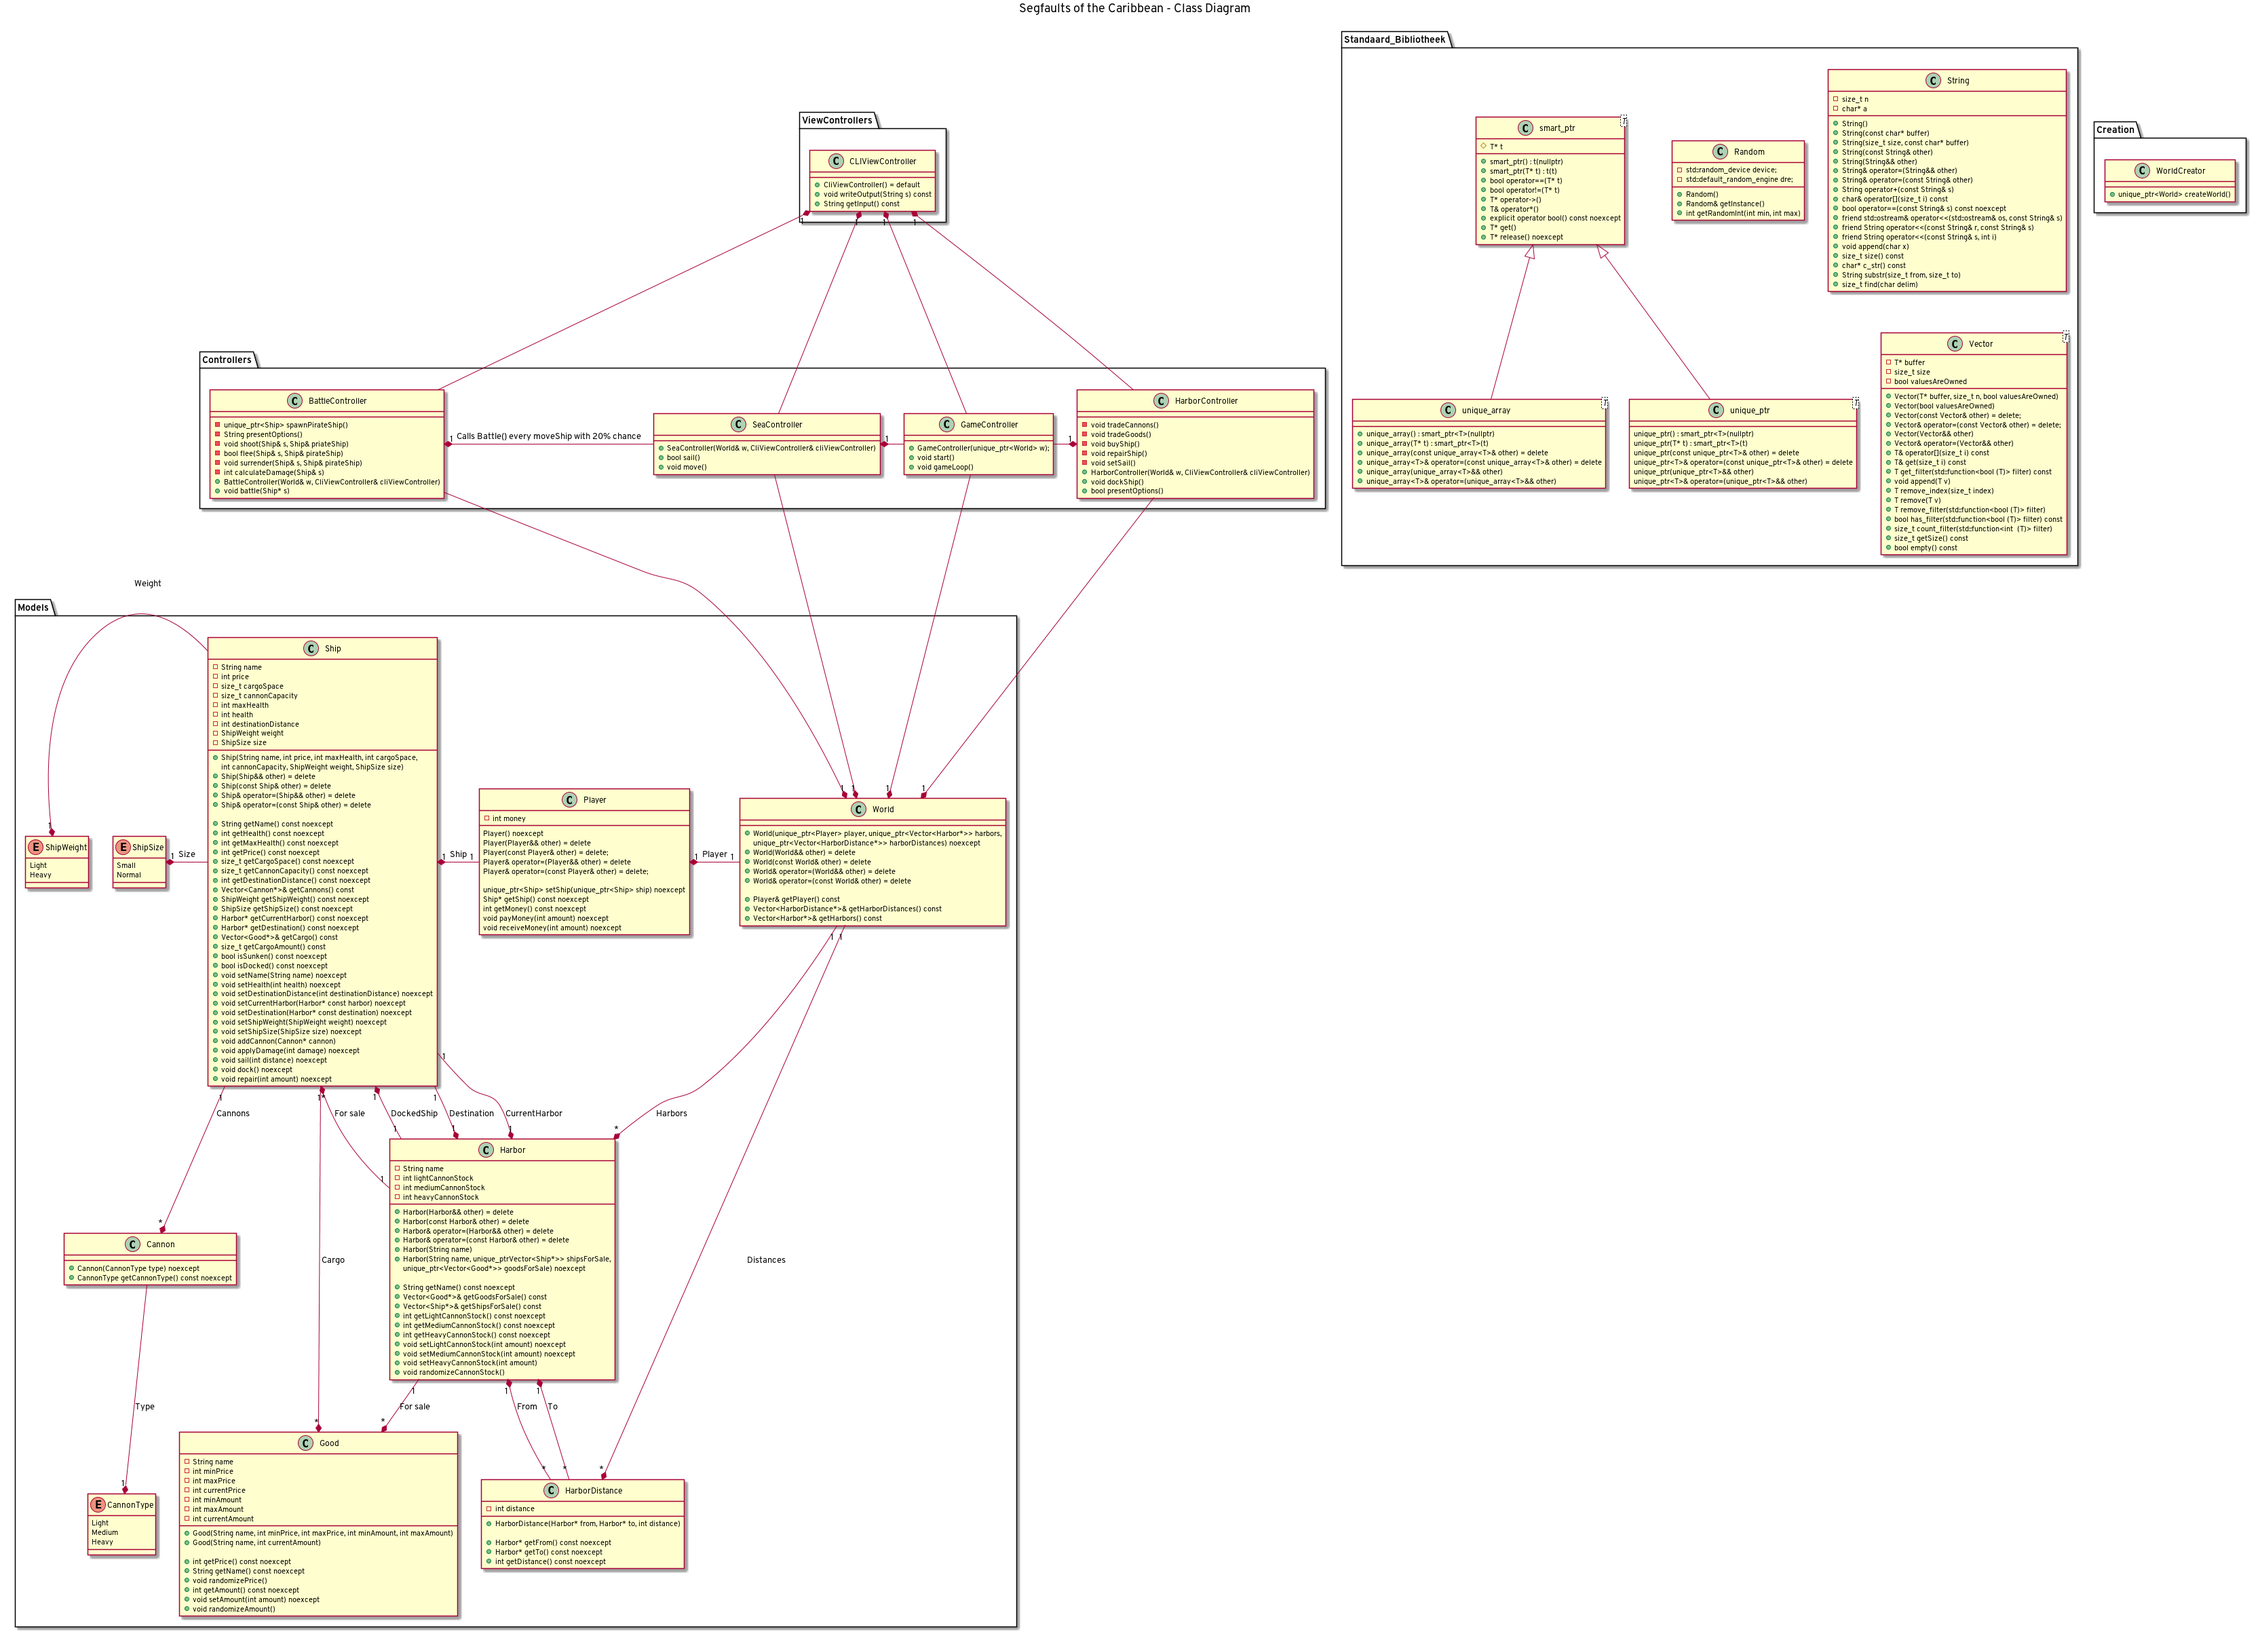
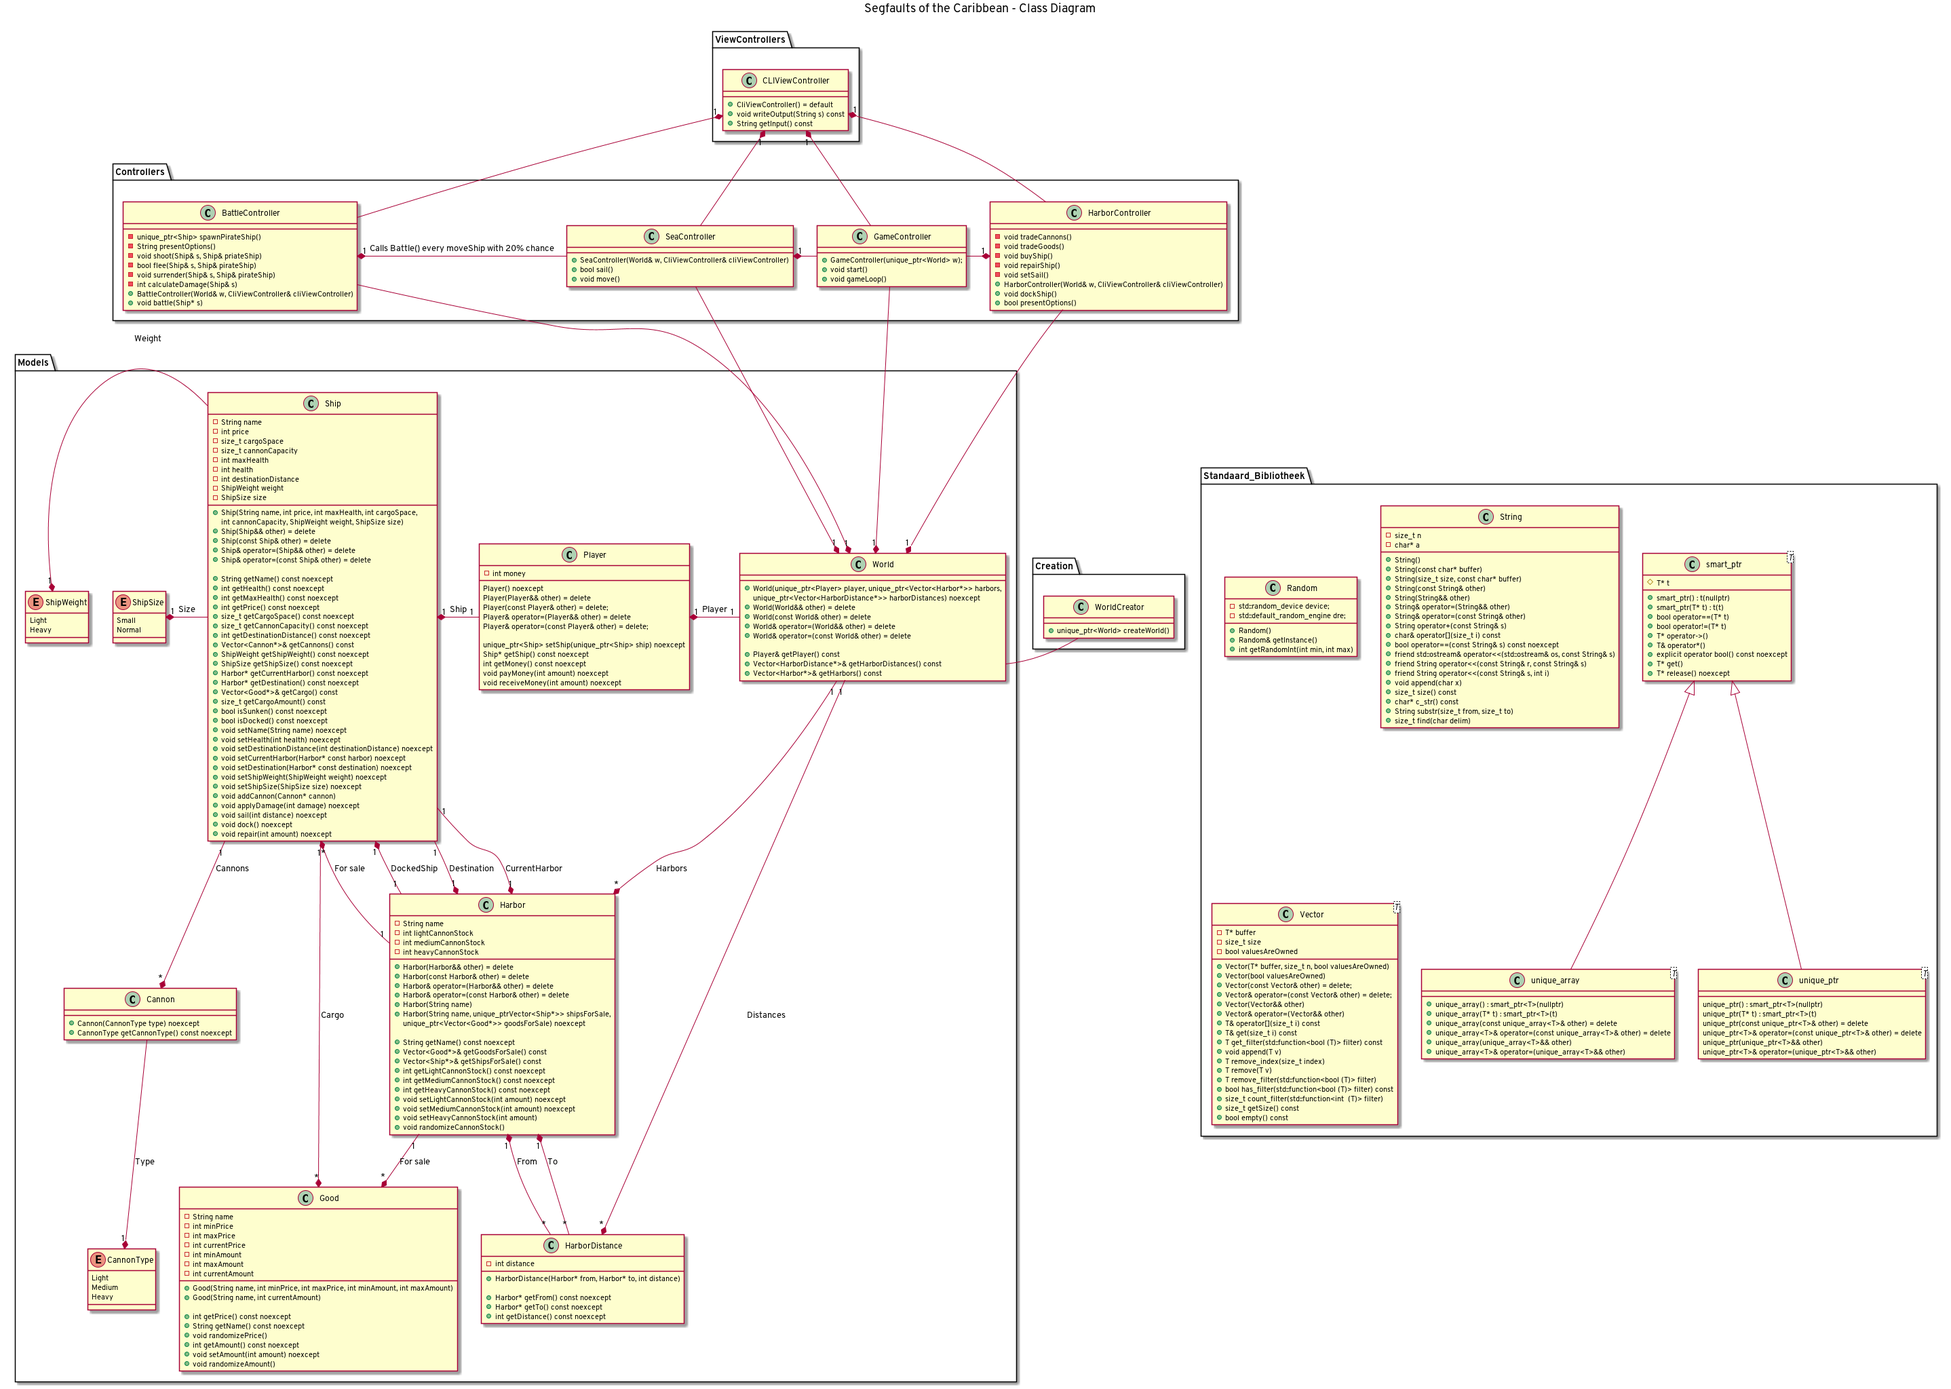
Improved diagram and some small things

diff --git a/src/controllers/harbor_controller.cpp b/src/controllers/harbor_controller.cpp
@@ -121,7 +121,7 @@ void HarborController::tradeCannons() {
             } else {
                 input_failed = true;
             }
-        } catch(const std::invalid_argument&) {  
+        } catch(...) {  
             input_failed = true;
         }
     } while(input_failed == true);
@@ -187,7 +187,7 @@ void HarborController::tradeGoods() {
                             input_failed = true;
                         }
                     }
-                    catch(const std::invalid_argument&) {
+                    catch(...) {
                         input_failed = true;
                     }
                 }
@@ -222,14 +222,14 @@ void HarborController::tradeGoods() {
                             input_failed = true;
                         }
                     }
-                    catch(const std::invalid_argument&) {
+                    catch(...) {
                         input_failed = true;
                     }
                 }
             } else {
                 input_failed = true;
             }
-        } catch(const std::invalid_argument&) {  
+        } catch(...) {  
             input_failed = true;
         }
     } while(input_failed == true);
@@ -246,7 +246,7 @@ void HarborController::buyShip() {
     }
 
     try {
-        const size_t input = std::stol(cliViewController.getInput().c_str());
+        const size_t input { static_cast<size_t>(std::stol(cliViewController.getInput().c_str())) };
         if(input < harbor->getShipsForSale().getSize()) {
             auto shipToBuy { harbor->getShipsForSale().get(input) };
             if (player.getMoney() - shipToBuy->getPrice() + (player.getShip()->getPrice() / 2) < 0) {
@@ -284,7 +284,7 @@ void HarborController::buyShip() {
             return;
         }
     }
-    catch(const std::invalid_argument&) {
+    catch(...) {
         cliViewController.writeOutput(String("The given input was incorrect!"));
         return;
     }
@@ -323,7 +323,7 @@ void HarborController::setSail() {
         }
 
         try {
-            const size_t input = std::stoi(cliViewController.getInput().c_str());
+            const size_t input { static_cast<size_t>(std::stoi(cliViewController.getInput().c_str())) };
             if(input < world.getHarborDistances().getSize() && world.getHarborDistances()[input]->getFrom() == ship->getCurrentHarbor()) {
                 ship->setDestinationDistance(world.getHarborDistances()[input]->getDistance());
                 ship->setDestination(world.getHarborDistances()[input]->getTo());
@@ -331,7 +331,7 @@ void HarborController::setSail() {
                 cliViewController.writeOutput(String("Destination set to: ") << world.getHarborDistances()[input]->getTo()->getName());
             }
         }
-        catch(const std::invalid_argument&) {
+        catch(...) {
             input_failed = true;
         }
     } while(input_failed == true);

diff --git a/src/controllers/game_controller.cpp b/src/controllers/game_controller.cpp
@@ -33,7 +33,7 @@ void GameController::start() {
         }
         try {
             const String input_string = cliViewController->getInput();
-            const size_t input = std::stol(input_string.c_str());
+            const size_t input { static_cast<size_t>(std::stol(input_string.c_str())) };
             if(input < world->getHarbors().getSize()) {
                 world->getPlayer().getShip()->setDestination(world->getHarbors()[input]);
                 harborController->dockShip();
@@ -42,7 +42,7 @@ void GameController::start() {
                 input_failed = true;
             }
         }
-        catch(const std::invalid_argument&) {
+        catch(...) {
             input_failed = true;
         }
     } while(input_failed == true);
